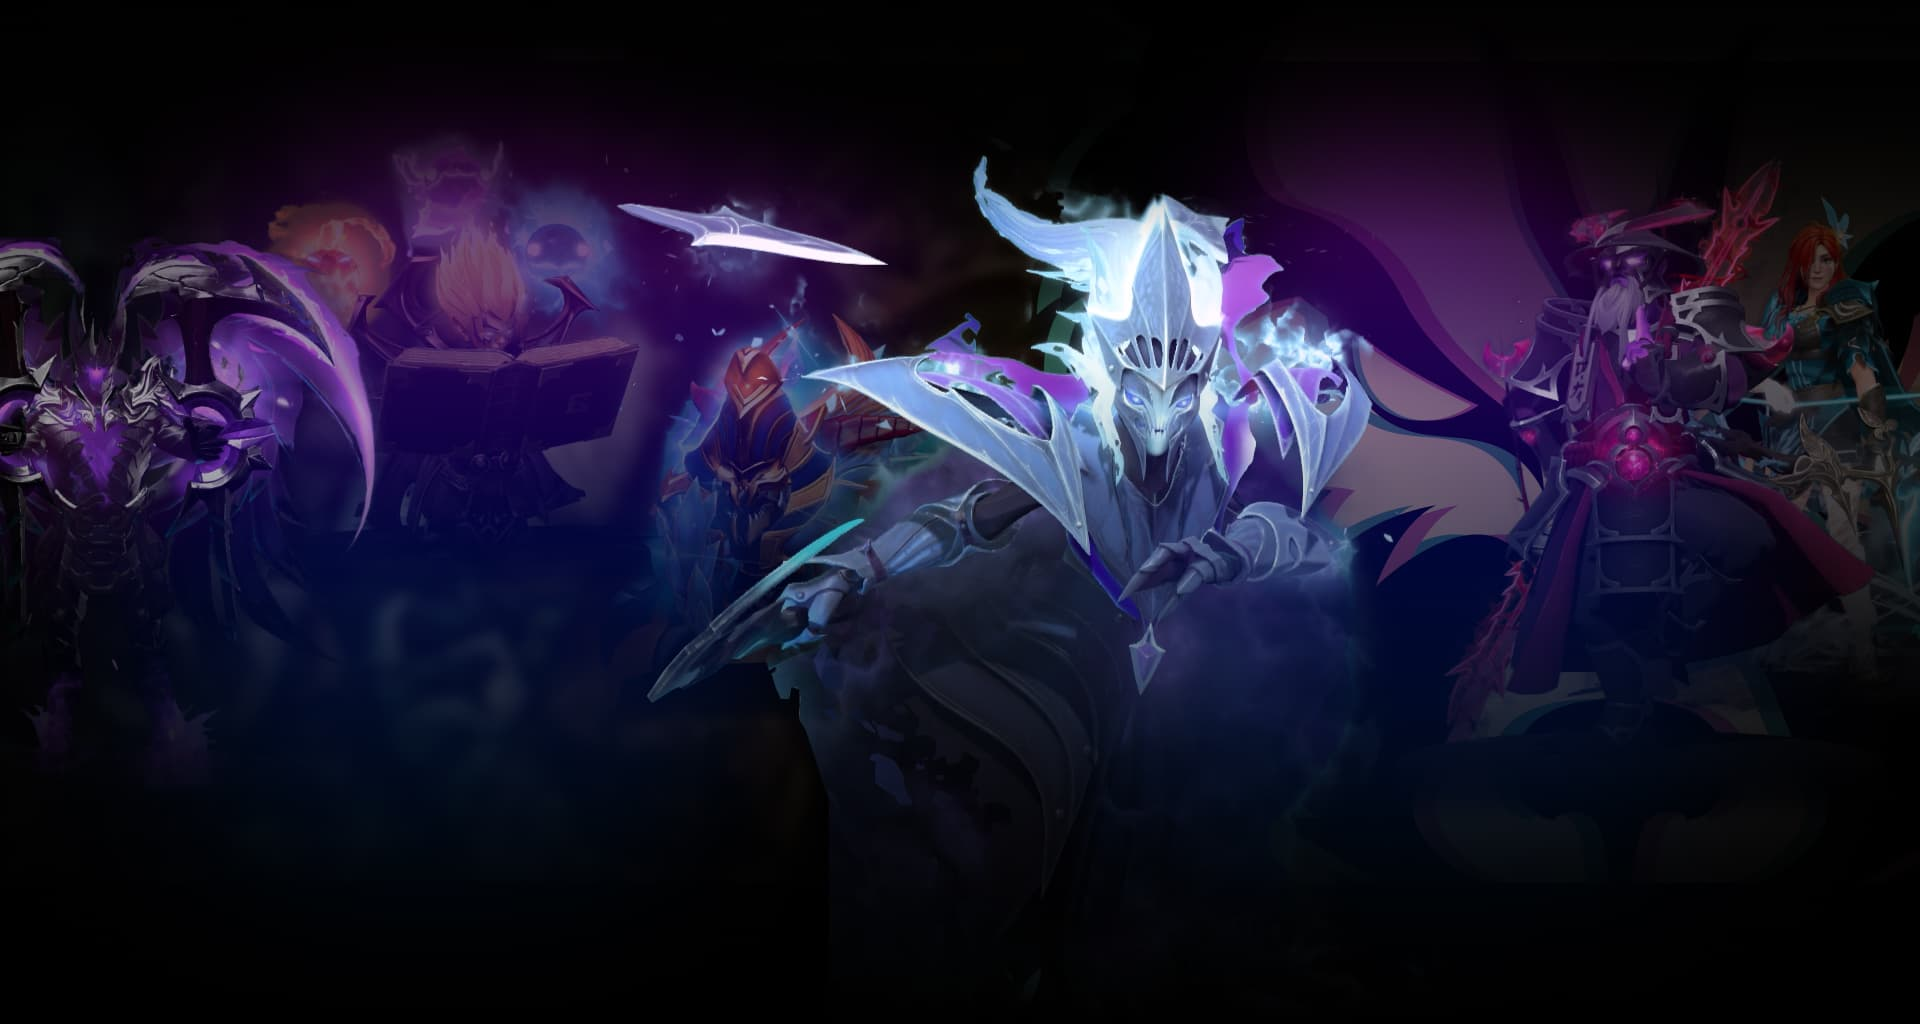
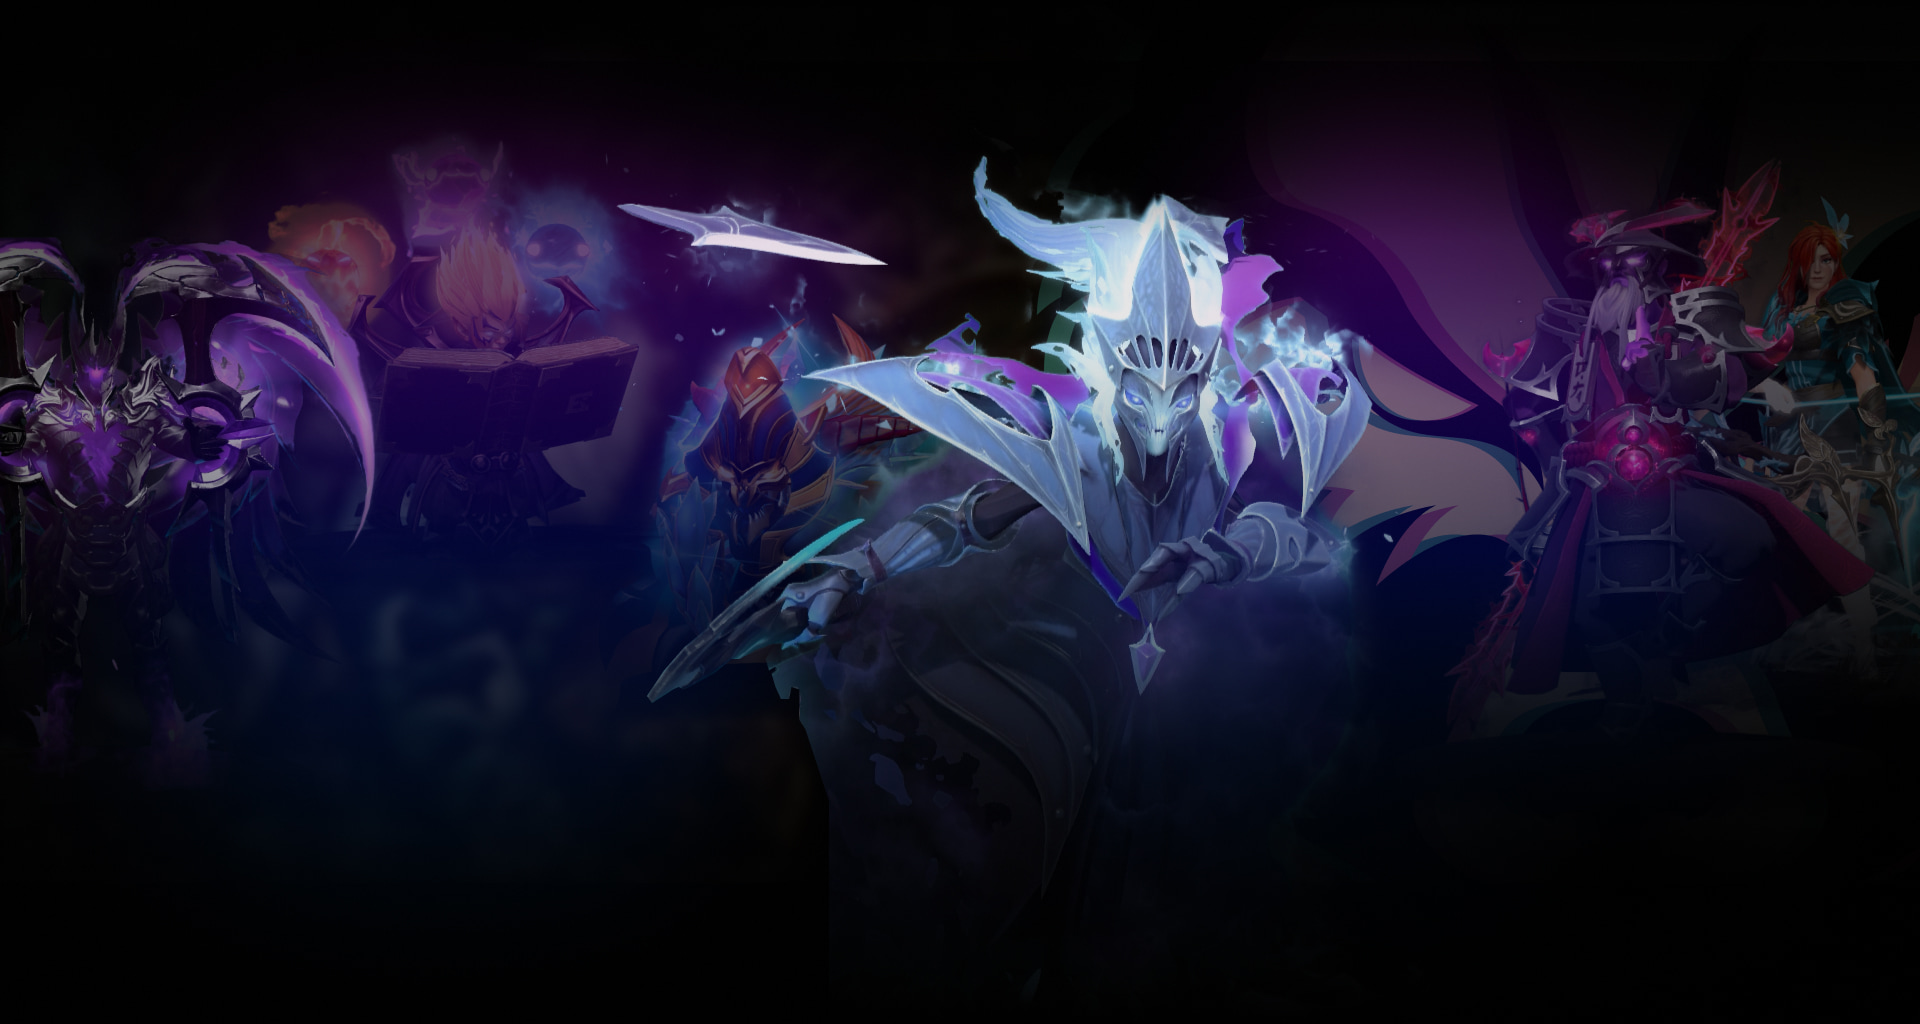
ашч

diff --git a/assets/styles/sections/index-page/hero.sass b/assets/styles/sections/index-page/hero.sass
@@ -19,7 +19,7 @@
         height: 60%
         width: 70%
         right: 0
-        background: linear-gradient(350deg, rgba(black, .7) 0%, rgba(black, 0) 60%)
+        background: linear-gradient(350deg, rgba(black, 1) 0%, rgba(black, 0) 50%)
     &::after
         width: 100%
         left: 0
